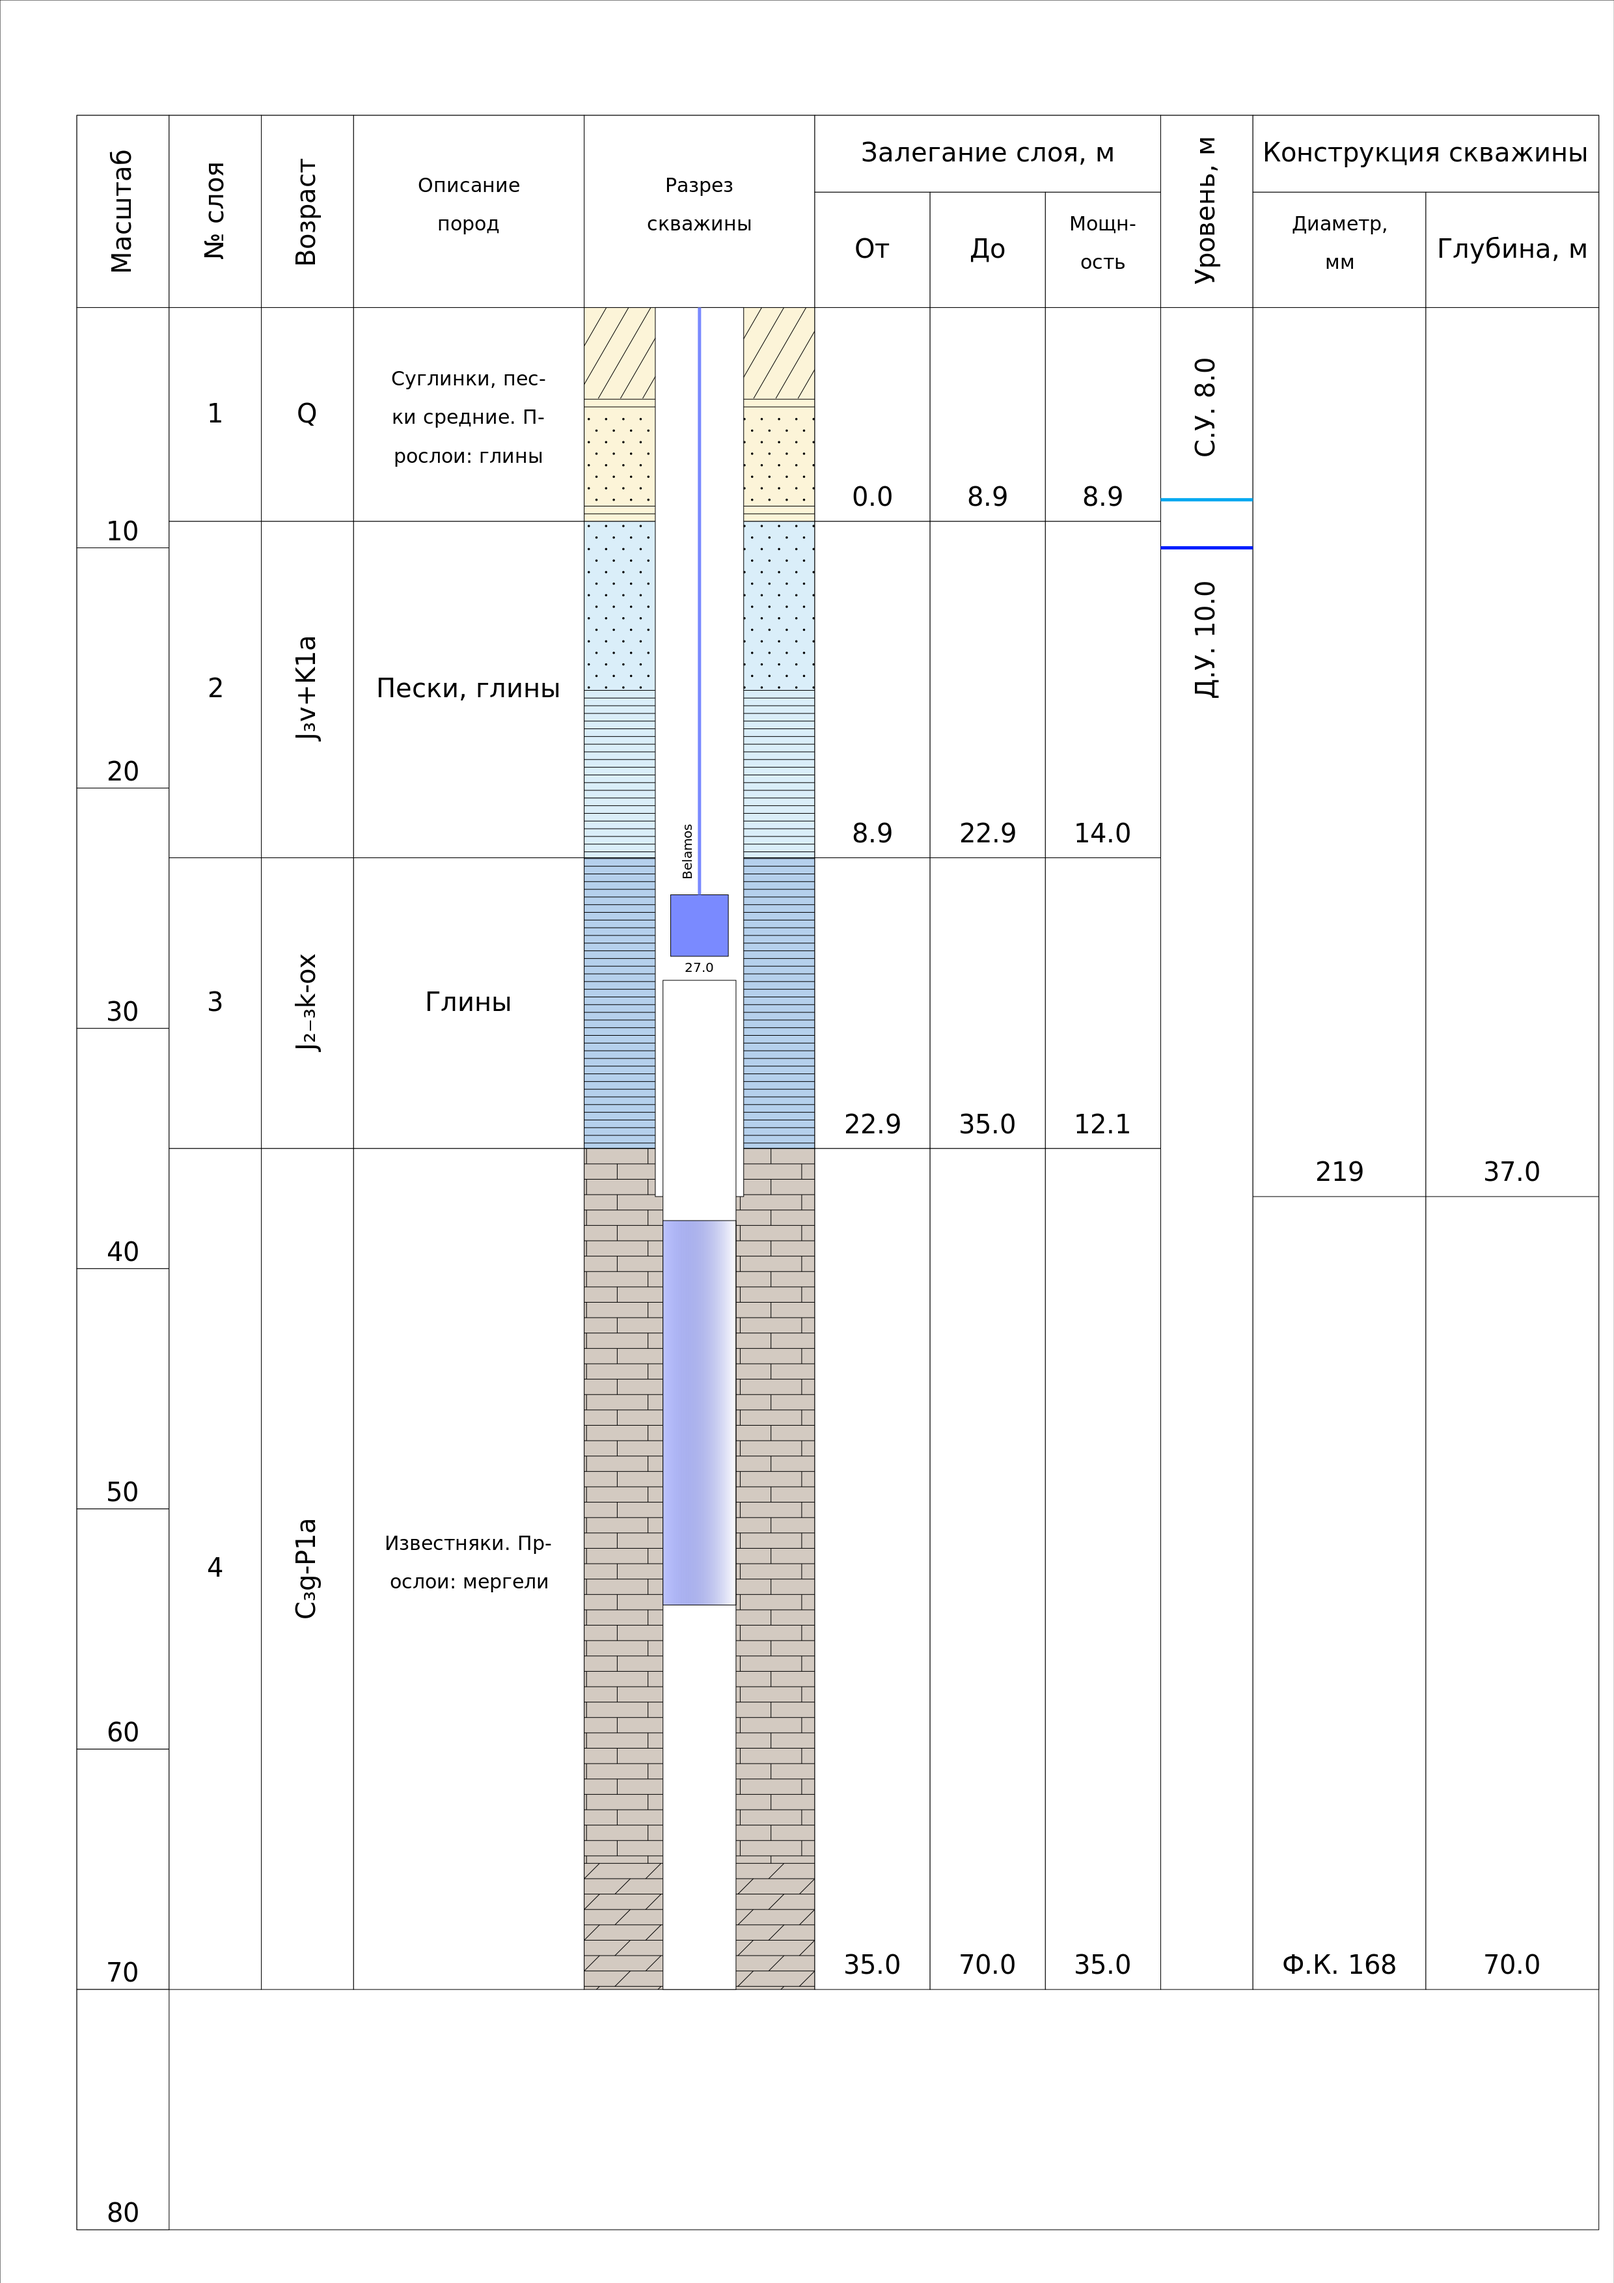
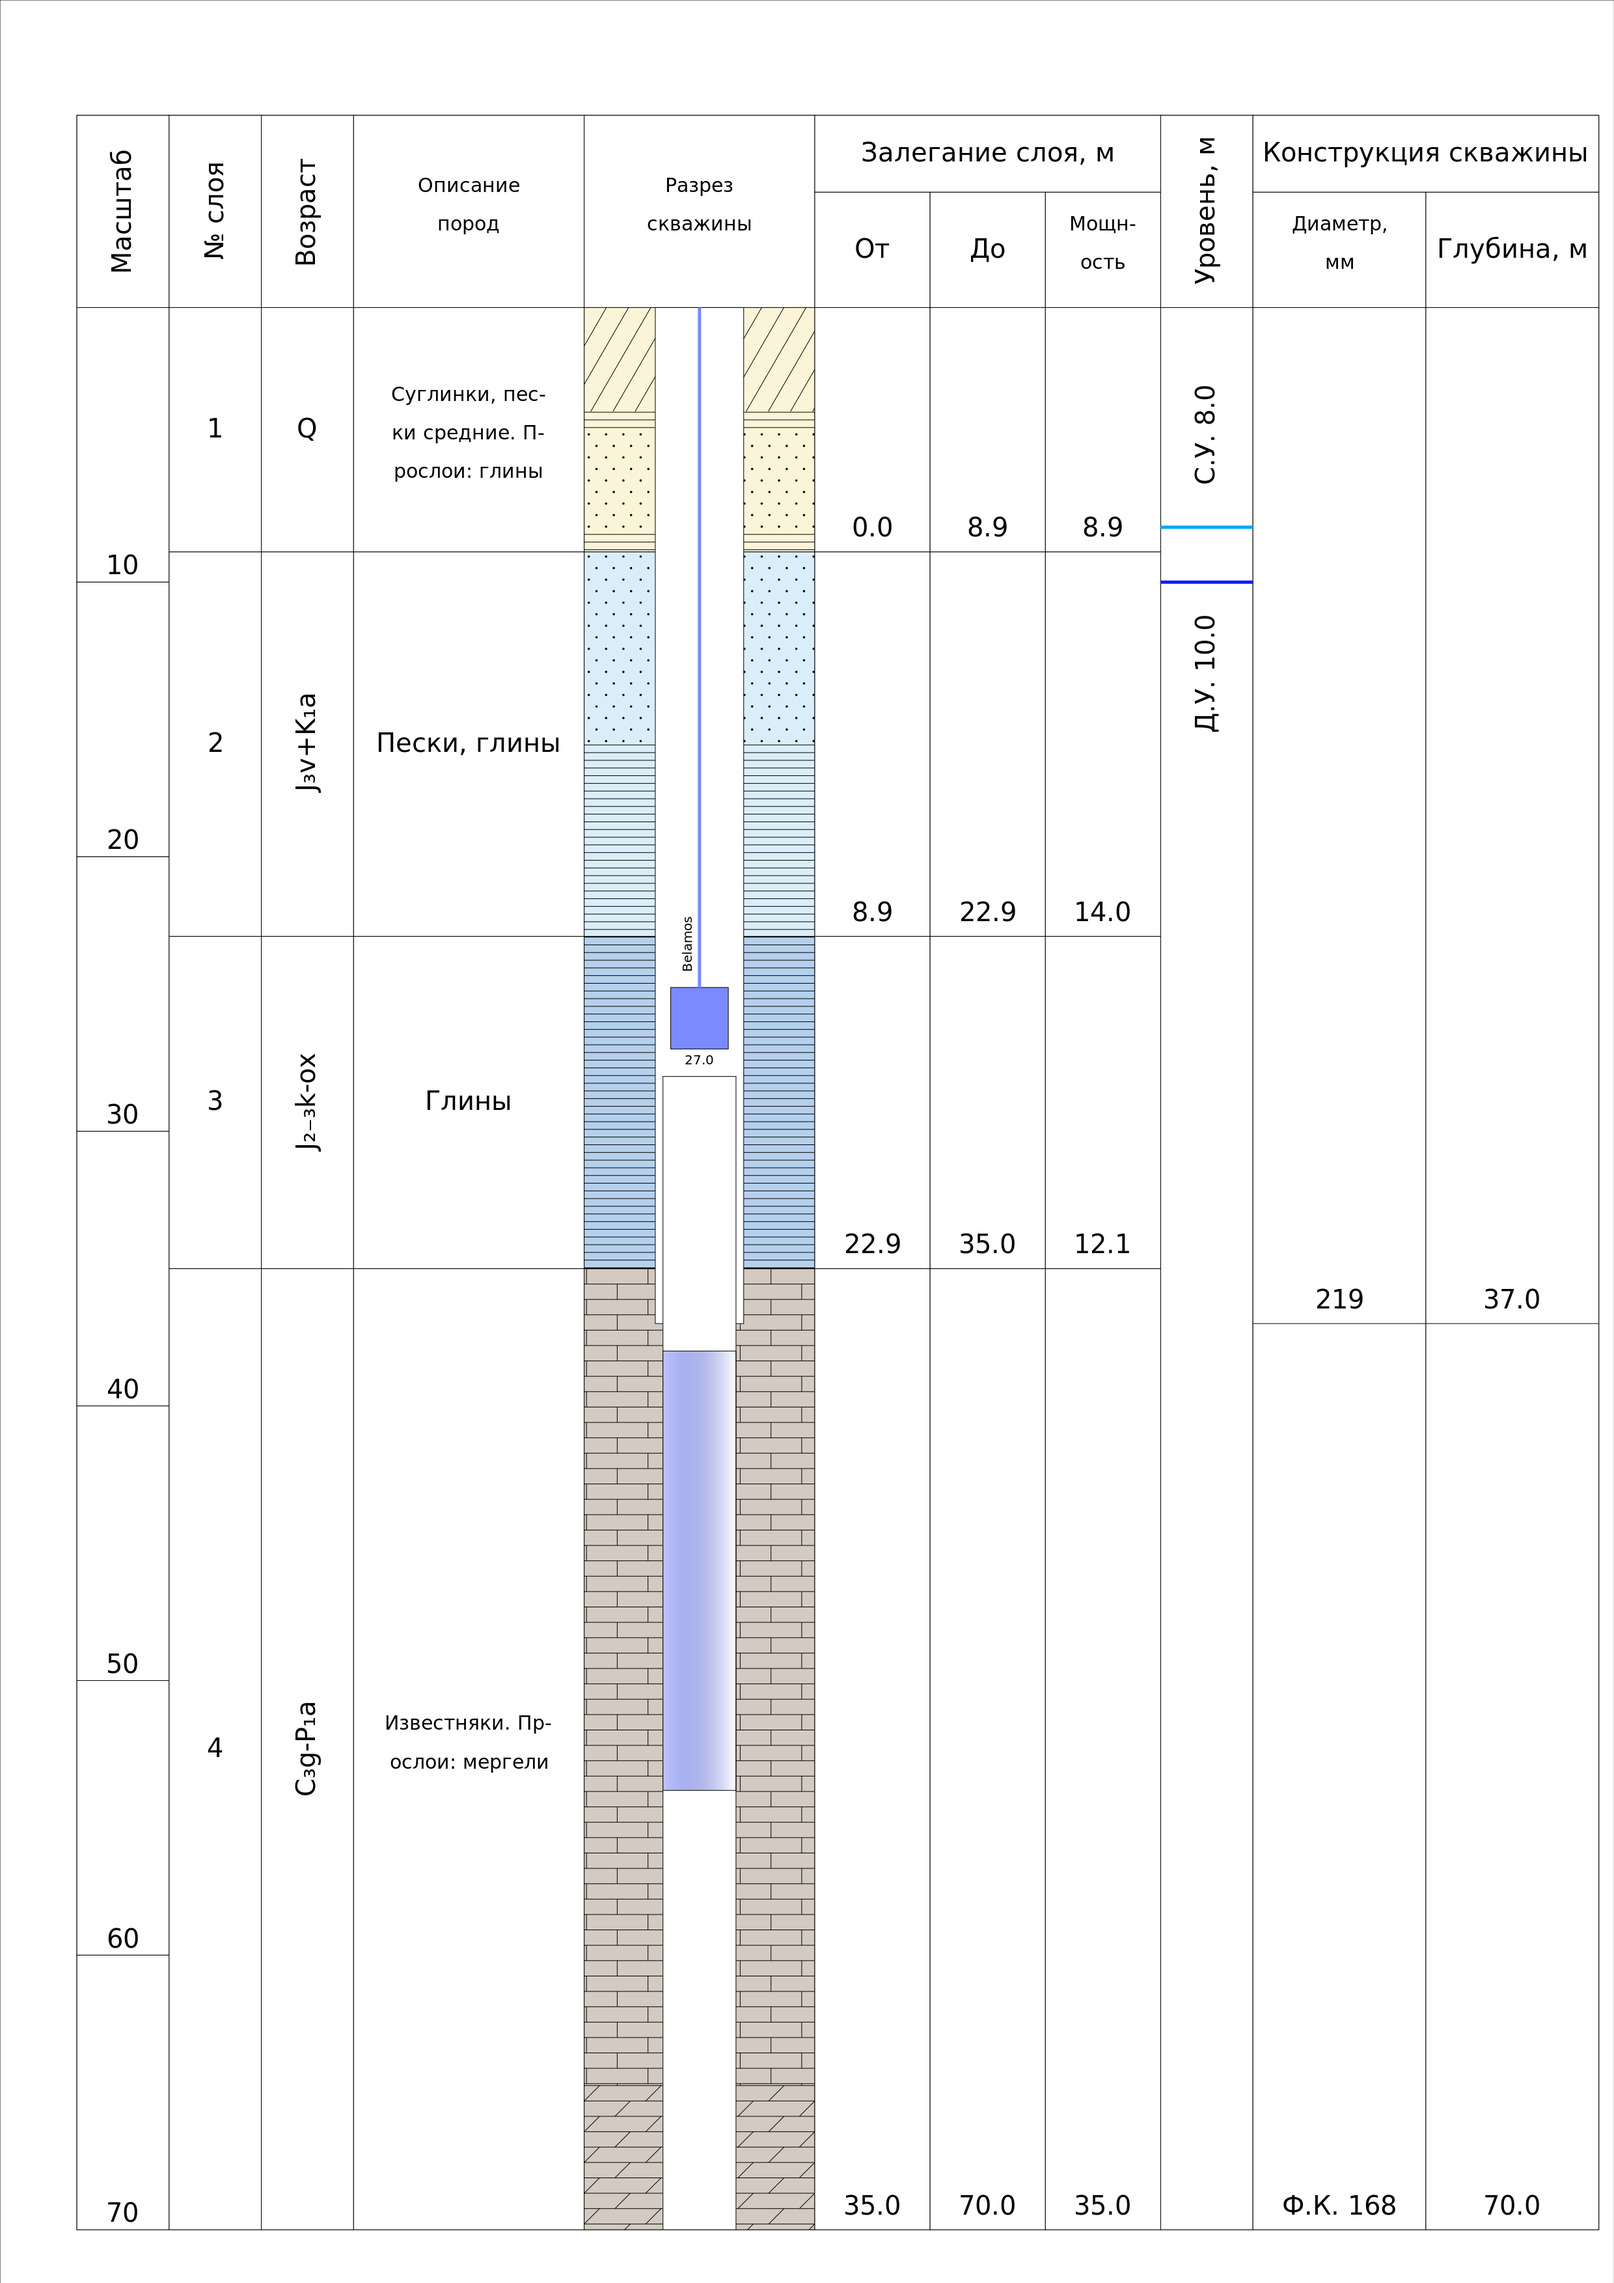
some fixes in texts

diff --git a/drawing/fixtures.py b/drawing/fixtures.py
@@ -304,14 +304,20 @@ well_data_4 = {
             "id": 1,
             "name": "Q",
             "thick": 8.9,
-            "sediments": ("суглинки", "пески средние",),
+            "sediments": (
+                "суглинки",
+                "пески средние",
+            ),
             "interlayers": ("глины",),
         },
         2: {
             "id": 2,
             "name": "J3v+K1a",
             "thick": 14.0,
-            "sediments": ("пески", "глины",),
+            "sediments": (
+                "пески",
+                "глины",
+            ),
         },
         3: {
             "id": 3,
@@ -323,9 +329,7 @@ well_data_4 = {
             "id": 4,
             "name": "C3g-P1a",
             "thick": 35.0,
-            "sediments": (
-                "известняки",
-            ),
+            "sediments": ("известняки",),
             "interlayers": ("мергели",),
         },
     },

diff --git a/drawing/test.py b/drawing/test.py
@@ -1,29 +1,3 @@
-import drawSvg as draw
-
-width = 100
-height = 100
-d = draw.Drawing(width, height, origin=(0, 0), displayInline=False)
-
-with open("new-fill.svg", "r") as file:
-    raw_svg = file.read()
-    raw_latex_1 = raw_svg.replace("<?xml version='1.0'?>", "")
-    raw_rendered_svg_1 = draw.Raw(raw_latex_1)
-# o = draw.Image(0, 0, 100, 100, raw_rendered_svg_1)
-# d.append(o)
-
-pattern = draw.Raw(
-    f"""
-<defs>
-  <pattern id="pattern1"
-           x="0" y="0" width="100" height="100"
-           patternUnits="userSpaceOnUse" >
-    {raw_rendered_svg_1}
-        <circle cx="10" cy="10" r="10"
-            style="stroke: #0000ff; fill: url(#pattern1)"/>
-  </pattern>
-</defs>"""
-)
-d.append(pattern)
-r = draw.Rectangle(0, 0, 100, 100, fill="url(#pattern1)", stroke="black")
-d.append(r)
-d.saveSvg("example_2.svg")
+str = "C₃g-P1a"
+pos = str.find("P1")
+print(str.replace("P1", "P\u2081"))

diff --git a/drawing/main.py b/drawing/main.py
@@ -53,7 +53,7 @@ def scaling(well_depth):
         section = 40
     elif well_depth > 400 and well_depth <= 500:
         section = 50
-    section_numbers = round((well_depth + (section / 2)) / section)
+    section_numbers = round((well_depth + (section / 2) - 0.1) / section)
     return section, section_numbers
 
 
@@ -171,7 +171,7 @@ def rectangle(d, x, y, x1, y1, text, direction):
     elif direction == "h":
         number_str = math.ceil(abs((len(text) * 2.1) / x1))
         # коррекция размера текста (если строк много)
-        if number_str * 5 >= - 0.8 * y1:
+        if number_str * 5 >= -0.8 * y1:
             text_size = 30
             if number_str == 1:
                 central_koef = 6.2

diff --git a/drawing/index_colours.py b/drawing/index_colours.py
@@ -54,6 +54,7 @@ def colour(index):
 
 # конвертация в нижний регистр индекса
 def convertation(index):
+    text = index
     if len(index) >= 2:
         if index[1].isdigit():
             if int(index[1]) == 1:
@@ -70,5 +71,6 @@ def convertation(index):
                     text = f"{text[0:2]}\u208B\u2082{text[4:]}"
                 elif int(index[3]) == 3:
                     text = f"{text[0:2]}\u208B\u2083{text[4:]}"
-        return text
-    return index
+    text = text.replace("K1", "K\u2081")
+    text = text.replace("P1", "P\u2081")
+    return text

diff --git a/drawing/specks.py b/drawing/specks.py
@@ -279,7 +279,6 @@ def marls(d, x, y, width, height):
                 d.append(c)
                 x_start += delta_x
             else:
-                print(1)
                 # остаток от delta_y
                 y_min = delta_y - ((i + 1) * delta_y - height * koef)
                 # поправка смещения (вместо +1 и -1)
